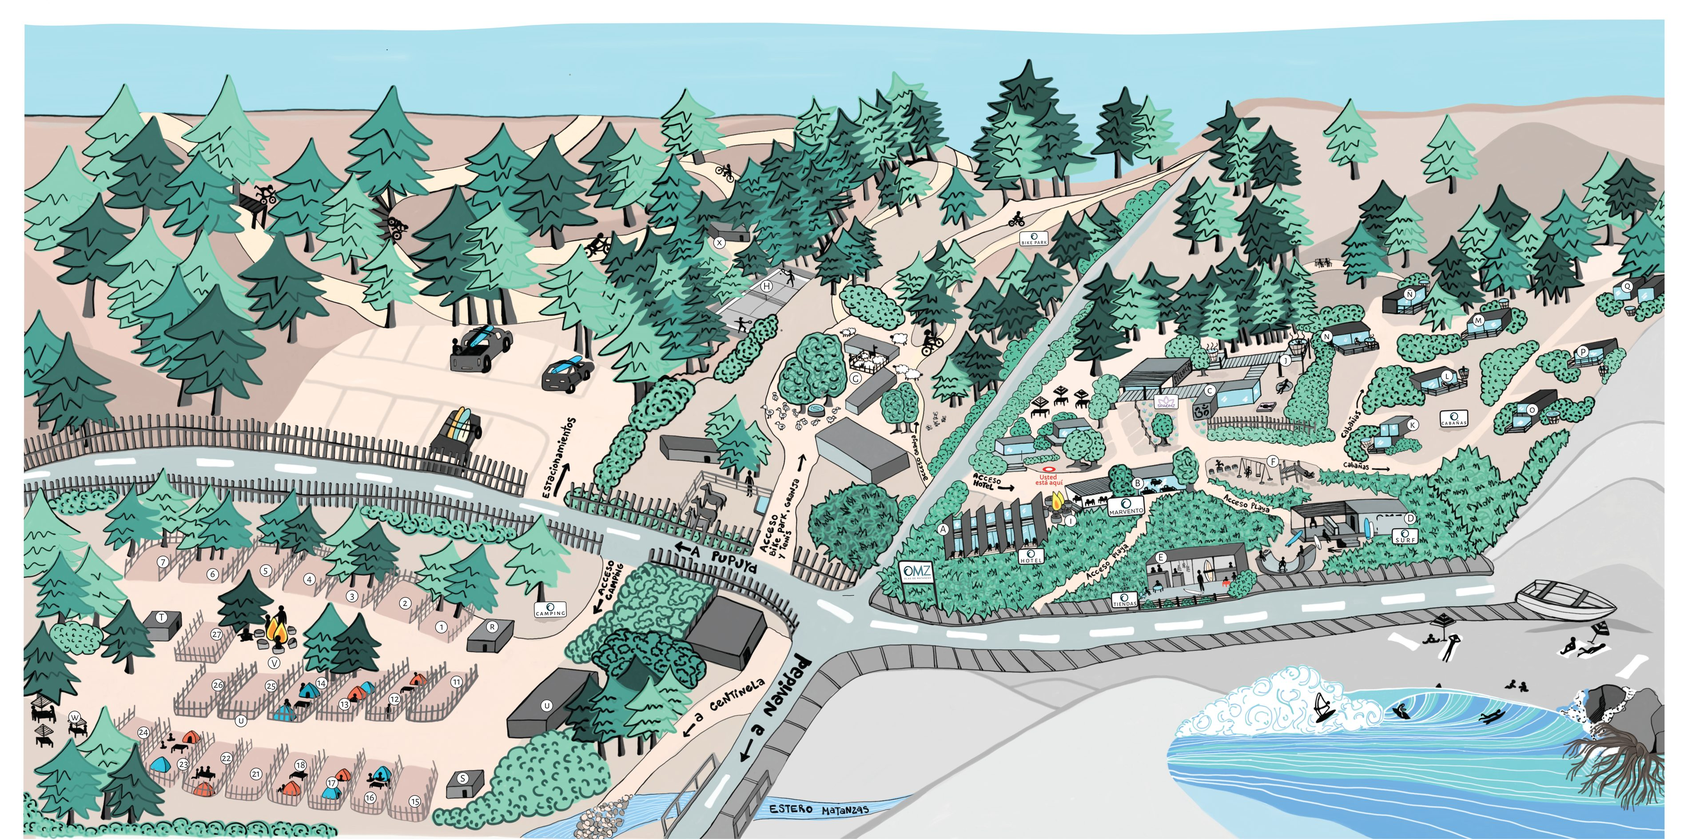
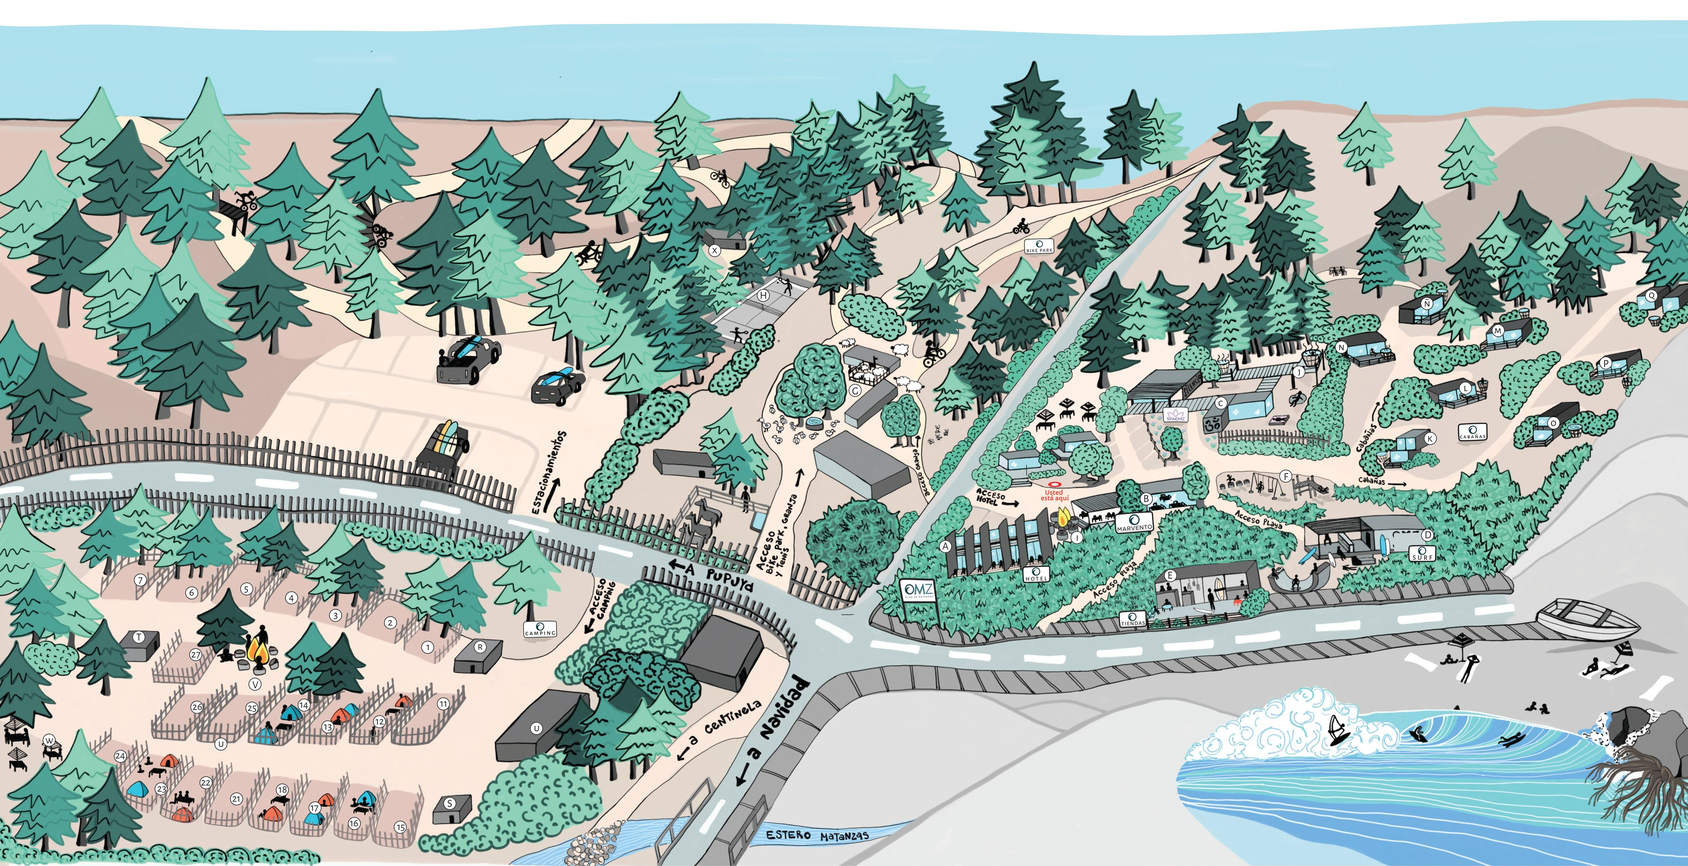
Mapa: recorte lateral, x para limpiar buscador, atenuar puntos al seleccionar, espacio antes del footer

diff --git a/mapa.html b/mapa.html
@@ -569,7 +569,7 @@ p{color:var(--text)}
 .cmch--wa .cmch__t{color:#fff}.cmch--wa .cmch__s{color:#eafff2}
 </style>
 <style>
-.omzmap{--paper:#f4efe6;--slate:#3d545b;--slate-deep:#2e434a;--head:#415a63;--mink:#313f47;--cream:#efe8da;--mline:#d9cfbd;color:var(--mink);font-family:'Mulish',system-ui,sans-serif;max-width:1320px;margin:0 auto;padding:clamp(10px,2.5vw,26px) 0 0}
+.omzmap{--paper:#f4efe6;--slate:#3d545b;--slate-deep:#2e434a;--head:#415a63;--mink:#313f47;--cream:#efe8da;--mline:#d9cfbd;color:var(--mink);font-family:'Mulish',system-ui,sans-serif;max-width:1320px;margin:0 auto;padding:clamp(10px,2.5vw,26px) 0 clamp(36px,6vw,68px)}
 .omzmap *{box-sizing:border-box}
 .omzmap .omzsub{text-align:center;color:#6c685f;font-size:.96rem;margin:0 auto 16px;max-width:760px;padding:0 16px}
 .omzmap .mapouter{position:relative;width:100%;padding:0 clamp(0px,2vw,16px)}
@@ -581,9 +581,11 @@ p{color:var(--text)}
 .omzmap .zbtn.on{background:var(--slate);color:#fff;border-color:var(--slate)}
 .omzmap .zbtn.reset{background:transparent;border-style:dashed}
 .omzmap .search{position:relative;min-width:220px;flex:1;max-width:330px}
-.omzmap .search input{width:100%;border:1px solid var(--mline);background:#fff;border-radius:0;padding:10px 16px 10px 40px;font-family:inherit;font-size:.9rem;color:var(--mink)}
+.omzmap .search input{width:100%;border:1px solid var(--mline);background:#fff;border-radius:0;padding:10px 40px 10px 16px;font-family:inherit;font-size:.9rem;color:var(--mink)}
 .omzmap .search input:focus{outline:none;border-color:var(--slate)}
-.omzmap .search>svg{position:absolute;left:14px;top:50%;transform:translateY(-50%);opacity:.5}
+.omzmap .search__clear{position:absolute;right:8px;top:50%;transform:translateY(-50%);width:24px;height:24px;border:0;background:var(--cream);color:var(--head);font-size:1.05rem;line-height:1;cursor:pointer;display:none;align-items:center;justify-content:center;padding:0}
+.omzmap .search__clear.show{display:flex}
+.omzmap .search__clear:hover{background:var(--mline);color:var(--slate)}
 .omzmap .results{position:absolute;top:calc(100% + 6px);left:0;right:0;background:#fff;border:1px solid var(--mline);border-radius:0;box-shadow:0 18px 40px -16px rgba(0,0,0,.35);max-height:300px;overflow:auto;z-index:40;display:none}
 .omzmap .results.show{display:block}
 .omzmap .results button{display:flex;width:100%;align-items:center;gap:10px;border:0;background:none;padding:9px 14px;cursor:pointer;font-family:inherit;font-size:.88rem;color:var(--mink);text-align:left}
@@ -802,8 +804,8 @@ p{color:var(--text)}
     <div class="ctrl">
       <div class="zones" id="zones"></div>
       <div class="search">
-        <svg width="16" height="16" viewBox="0 0 24 24" fill="none" stroke="#3d545b" stroke-width="2"><circle cx="11" cy="11" r="7"/><path d="m21 21-4.3-4.3"/></svg>
         <input id="q" type="text" placeholder="Selecciona…" autocomplete="off">
+        <button class="search__clear" id="qclear" type="button" aria-label="Borrar">×</button>
         <div class="results" id="res"></div>
       </div>
     </div>
@@ -1484,7 +1486,7 @@ setLang(url||saved||(((navigator.language||'es').slice(0,2)==='en')?'en':'es'));
 <script>(function(){var m=document.getElementById("contactModal");if(!m)return;function op(){var mob=document.querySelector(".nav__mobile.open");if(mob)mob.classList.remove("open");m.classList.add("open");document.body.style.overflow="hidden";}function cl(){m.classList.remove("open");document.body.style.overflow="";}document.addEventListener("click",function(e){var t=e.target.closest("[data-contact]");if(t){e.preventDefault();op();return;}if(e.target.closest("[data-cmodal-close]"))cl();});document.addEventListener("keydown",function(e){if(e.key==="Escape"&&m.classList.contains("open"))cl();});try{var _cl=document.documentElement.lang==="en"?"en":"es";var _b=document.querySelector('[data-lang="'+_cl+'"]');if(_b&&_cl==="en")_b.click();}catch(e){}})();</script>
 <script>
 (function(){
-var D={"img": "assets/mapa-omz.jpg", "spots": [{"x": 55.87, "y": 63.09, "n": "Hotel", "c": "Instalación"}, {"x": 67.3, "y": 57.53, "n": "Restaurant Marvento", "c": "Instalación"}, {"x": 71.68, "y": 46.52, "n": "Spa OMZ", "c": "Instalación"}, {"x": 83.55, "y": 61.81, "n": "Escuela de Surf OMZ", "c": "Instalación"}, {"x": 68.78, "y": 66.44, "n": "Tiendas, cafetería y heladería", "c": "Instalación"}, {"x": 75.41, "y": 54.95, "n": "Juegos infantiles", "c": "Instalación"}, {"x": 50.68, "y": 45.05, "n": "Granja de animales", "c": "Instalación"}, {"x": 45.4, "y": 34.08, "n": "Cancha de Tenis", "c": "Instalación"}, {"x": 63.42, "y": 62.04, "n": "Fogón Restaurante", "c": "Instalación"}, {"x": 76.18, "y": 42.88, "n": "Hot-Tubs", "c": "Instalación"}, {"x": 83.7, "y": 50.61, "n": "Cabaña Los Pájaros", "c": "Cabaña"}, {"x": 85.71, "y": 44.8, "n": "Cabaña Los Lobos", "c": "Cabaña"}, {"x": 87.3, "y": 37.44, "n": "Cabaña Los Pelícanos", "c": "Cabaña"}, {"x": 78.6, "y": 40.05, "n": "Cabaña Las Gaviotas", "c": "Cabaña"}, {"x": 83.0, "y": 34.1, "n": "Cabaña La Sirena", "c": "Cabaña"}, {"x": 90.76, "y": 48.81, "n": "Cabaña La Luna", "c": "Cabaña"}, {"x": 93.77, "y": 41.9, "n": "Cabaña Chagual", "c": "Cabaña"}, {"x": 96.39, "y": 34.14, "n": "Cabaña Las Brisas", "c": "Cabaña"}, {"x": 29.16, "y": 74.67, "n": "Baños Los Peumos", "c": "Baños"}, {"x": 27.42, "y": 92.76, "n": "Baños Los Boldos", "c": "Baños"}, {"x": 9.57, "y": 73.55, "n": "Baños Los Maquis", "c": "Baños"}, {"x": 32.38, "y": 84.09, "n": "Recepción camping", "c": "Camping"}, {"x": 16.23, "y": 78.98, "n": "Fogón", "c": "Camping"}, {"x": 4.42, "y": 85.47, "n": "Quincho", "c": "Camping"}, {"x": 42.63, "y": 28.91, "n": "Casa Bosque", "c": "Camping"}, {"x": 26.15, "y": 74.72, "n": "Sitio de camping 1", "c": "Sitio"}, {"x": 24.01, "y": 71.89, "n": "Sitio de camping 2", "c": "Sitio"}, {"x": 20.86, "y": 71.03, "n": "Sitio de camping 3", "c": "Sitio"}, {"x": 18.32, "y": 68.99, "n": "Sitio de camping 4", "c": "Sitio"}, {"x": 15.76, "y": 67.96, "n": "Sitio de camping 5", "c": "Sitio"}, {"x": 12.61, "y": 68.43, "n": "Sitio de camping 6", "c": "Sitio"}, {"x": 9.67, "y": 66.97, "n": "Sitio de camping 7", "c": "Sitio"}, {"x": 27.05, "y": 81.25, "n": "Sitio de camping 11", "c": "Sitio"}, {"x": 23.38, "y": 83.29, "n": "Sitio de camping 12", "c": "Sitio"}, {"x": 20.41, "y": 83.91, "n": "Sitio de camping 13", "c": "Sitio"}, {"x": 19.05, "y": 81.4, "n": "Sitio de camping 14", "c": "Sitio"}, {"x": 24.58, "y": 95.49, "n": "Sitio de camping 15", "c": "Sitio"}, {"x": 21.94, "y": 95.06, "n": "Sitio de camping 16", "c": "Sitio"}, {"x": 19.68, "y": 93.27, "n": "Sitio de camping 17", "c": "Sitio"}, {"x": 17.8, "y": 91.19, "n": "Sitio de camping 18", "c": "Sitio"}, {"x": 15.17, "y": 92.23, "n": "Sitio de camping 21", "c": "Sitio"}, {"x": 13.43, "y": 90.34, "n": "Sitio de camping 22", "c": "Sitio"}, {"x": 10.82, "y": 91.09, "n": "Sitio de camping 23", "c": "Sitio"}, {"x": 8.51, "y": 87.31, "n": "Sitio de camping 24", "c": "Sitio"}, {"x": 16.06, "y": 81.73, "n": "Sitio de camping 25", "c": "Sitio"}, {"x": 12.91, "y": 81.63, "n": "Sitio de camping 26", "c": "Sitio"}, {"x": 12.84, "y": 75.57, "n": "Sitio de camping 27", "c": "Sitio"}], "caba": {"Cabaña Los Pájaros": {"guests": "2", "desc": "Hot tub privado, cocina totalmente equipada y terraza con vista al mar.", "alta": "$189.000", "baja": "$160.000", "slug": "pajaros", "url": "cabana-pajaros.html", "imgs": ["assets/caba-pajaros-1.jpg", "assets/caba-pajaros-2.jpg", "assets/caba-pajaros-3.jpg", "assets/caba-pajaros-4.jpg"]}, "Cabaña La Luna": {"guests": "2", "desc": "Zona de comedor, cocina totalmente equipada, hot tub privado y terraza con vista al mar.", "alta": "$195.000", "baja": "$165.000", "slug": "luna", "url": "cabana-luna.html", "imgs": ["assets/caba-luna-1.jpg", "assets/caba-luna-2.jpg", "assets/caba-luna-3.jpg", "assets/caba-luna-4.jpg", "assets/caba-luna-5.jpg"]}, "Cabaña Los Lobos": {"guests": "4", "desc": "Terraza con vista al mar, chimenea, cocina equipada, quincho con parrilla y hot tub privado.", "alta": "$215.000", "baja": "$180.000", "slug": "lobos", "url": "cabana-lobos.html", "imgs": ["assets/caba-lobos-1.jpg", "assets/caba-lobos-2.jpg", "assets/caba-lobos-3.jpg", "assets/caba-lobos-4.jpg", "assets/caba-lobos-5.jpg"]}, "Cabaña Las Gaviotas": {"guests": "4", "desc": "Habitaciones con vista al mar, hot tub privado, cocina equipada, chimenea y terraza.", "alta": "$215.000", "baja": "$180.000", "slug": "gaviotas", "url": "cabana-gaviotas.html", "imgs": ["assets/caba-gaviotas-1.jpg", "assets/caba-gaviotas-2.jpg", "assets/caba-gaviotas-3.jpg", "assets/caba-gaviotas-4.jpg", "assets/caba-gaviotas-5.jpg"]}, "Cabaña La Sirena": {"guests": "4", "desc": "Amplia terraza con vista al mar, chimenea, cocina equipada, habitaciones con vista al mar y hot tub privado.", "alta": "$215.000", "baja": "$180.000", "slug": "sirena", "url": "cabana-sirena.html", "imgs": ["assets/caba-sirena-1.jpg", "assets/caba-sirena-2.jpg", "assets/caba-sirena-3.jpg", "assets/caba-sirena-4.jpg", "assets/caba-sirena-5.jpg"]}, "Cabaña Chagual": {"guests": "4", "desc": "Hot tub privado, amplias terrazas con vista al mar, cocina equipada y chimenea.", "alta": "$215.000", "baja": "$180.000", "slug": "chagual", "url": "cabana-chagual.html", "imgs": ["assets/caba-chagual-1.jpg", "assets/caba-chagual-2.jpg", "assets/caba-chagual-3.jpg", "assets/caba-chagual-4.jpg", "assets/caba-chagual-5.jpg"]}, "Cabaña Las Brisas": {"guests": "5", "desc": "Balcón, hot tub privado, chimenea y terraza con vista al mar.", "alta": "$227.000", "baja": "$190.000", "slug": "brisas", "url": "cabana-brisas.html", "imgs": ["assets/caba-brisas-1.jpg", "assets/caba-brisas-2.jpg", "assets/caba-brisas-3.jpg", "assets/caba-brisas-4.jpg", "assets/caba-brisas-5.jpg"]}, "Cabaña Los Pelícanos": {"guests": "6", "desc": "Sofá, chimenea, hot tub y cocina totalmente equipada.", "alta": "$238.000", "baja": "$200.000", "slug": "pelicanos", "url": "cabana-pelicanos.html", "imgs": ["assets/caba-pelicanos-1.jpg", "assets/caba-pelicanos-2.jpg", "assets/caba-pelicanos-3.jpg", "assets/caba-pelicanos-4.jpg"]}}, "desc": {"Hotel": "Habitaciones con vista al mar, a pasos de la playa.", "Restaurant Marvento": "Restaurante del complejo, cocina de mar.", "Spa OMZ": "Espacio de relajo y bienestar.", "Escuela de Surf OMZ": "Clases y arriendo de equipo frente a la ola.", "Tiendas, cafetería y heladería": "Tienda, cafetería y heladería.", "Juegos infantiles": "Zona de juegos para los más chicos.", "Granja de animales": "Granja con animales para visitar.", "Cancha de Tenis": "Cancha de tenis del complejo.", "Fogón Restaurante": "Fogón del restaurante.", "Hot-Tubs": "Tinajas de agua caliente con vista.", "Baños Los Peumos": "Baños del camping.", "Baños Los Boldos": "Baños del camping.", "Baños Los Maquis": "Baños del camping.", "Recepción camping": "Recepción y check-in del camping.", "Fogón": "Fogón común del camping.", "Quincho": "Quincho con parrillas.", "Casa Bosque": "Casa en el bosque."}, "sitdesc": "Sitio de camping con acceso a baños, fogón, quincho y recepción.", "zones": {"camping": {"label": "Camping", "members": ["Baños Los Peumos", "Baños Los Boldos", "Baños Los Maquis", "Recepción camping", "Fogón", "Quincho", "Casa Bosque", "Sitio de camping 1", "Sitio de camping 2", "Sitio de camping 3", "Sitio de camping 4", "Sitio de camping 5", "Sitio de camping 6", "Sitio de camping 7", "Sitio de camping 11", "Sitio de camping 12", "Sitio de camping 13", "Sitio de camping 14", "Sitio de camping 15", "Sitio de camping 16", "Sitio de camping 17", "Sitio de camping 18", "Sitio de camping 21", "Sitio de camping 22", "Sitio de camping 23", "Sitio de camping 24", "Sitio de camping 25", "Sitio de camping 26", "Sitio de camping 27"], "box": {"x0": 1.92, "y0": 25.42, "x1": 45.13, "y1": 98.99}, "sum": "22 sitios · 3 baños · recepción · fogón · quincho"}, "cabanas": {"label": "Cabañas", "members": ["Cabaña Los Pájaros", "Cabaña Los Lobos", "Cabaña Los Pelícanos", "Cabaña Las Gaviotas", "Cabaña La Sirena", "Cabaña La Luna", "Cabaña Chagual", "Cabaña Las Brisas"], "box": {"x0": 73.65, "y0": 30.65, "x1": 98.89, "y1": 54.1}, "sum": "8 cabañas · desde $189.000 alta / $160.000 baja la noche"}, "hotel": {"label": "Hotel y servicios", "members": ["Hotel", "Restaurant Marvento", "Spa OMZ", "Tiendas, cafetería y heladería", "Fogón Restaurante", "Hot-Tubs", "Granja de animales", "Juegos infantiles"], "box": {"x0": 48.18, "y0": 41.56, "x1": 77.91, "y1": 69.94}, "sum": "Hotel · restaurante · spa · tiendas · juegos · granja"}, "playa": {"label": "Playa y deportes", "members": ["Cancha de Tenis", "Escuela de Surf OMZ", "Casa Bosque"], "box": {"x0": 40.13, "y0": 25.42, "x1": 86.05, "y1": 65.3}, "sum": "Escuela de surf · cancha de tenis · casa bosque"}}, "_crop": {"T": 10.8, "B": 76.5, "span": 65.7}, "maps": "https://www.google.com/maps/dir/?api=1&destination=-33.9636,-71.8756"};
+var D={"img": "assets/mapa-omz.jpg", "spots": [{"x": 56.01, "y": 63.09, "n": "Hotel", "c": "Instalación"}, {"x": 67.8, "y": 57.53, "n": "Restaurant Marvento", "c": "Instalación"}, {"x": 72.32, "y": 46.52, "n": "Spa OMZ", "c": "Instalación"}, {"x": 84.57, "y": 61.81, "n": "Escuela de Surf OMZ", "c": "Instalación"}, {"x": 69.33, "y": 66.44, "n": "Tiendas, cafetería y heladería", "c": "Instalación"}, {"x": 76.17, "y": 54.95, "n": "Juegos infantiles", "c": "Instalación"}, {"x": 50.65, "y": 45.05, "n": "Granja de animales", "c": "Instalación"}, {"x": 45.2, "y": 34.08, "n": "Cancha de Tenis", "c": "Instalación"}, {"x": 63.8, "y": 62.04, "n": "Fogón Restaurante", "c": "Instalación"}, {"x": 76.97, "y": 42.88, "n": "Hot-Tubs", "c": "Instalación"}, {"x": 84.73, "y": 50.61, "n": "Cabaña Los Pájaros", "c": "Cabaña"}, {"x": 86.8, "y": 44.8, "n": "Cabaña Los Lobos", "c": "Cabaña"}, {"x": 88.44, "y": 37.44, "n": "Cabaña Los Pelícanos", "c": "Cabaña"}, {"x": 79.46, "y": 40.05, "n": "Cabaña Las Gaviotas", "c": "Cabaña"}, {"x": 84.0, "y": 34.1, "n": "Cabaña La Sirena", "c": "Cabaña"}, {"x": 92.01, "y": 48.81, "n": "Cabaña La Luna", "c": "Cabaña"}, {"x": 95.12, "y": 41.9, "n": "Cabaña Chagual", "c": "Cabaña"}, {"x": 97.82, "y": 34.14, "n": "Cabaña Las Brisas", "c": "Cabaña"}, {"x": 28.44, "y": 74.67, "n": "Baños Los Peumos", "c": "Baños"}, {"x": 26.65, "y": 92.76, "n": "Baños Los Boldos", "c": "Baños"}, {"x": 8.22, "y": 73.55, "n": "Baños Los Maquis", "c": "Baños"}, {"x": 31.76, "y": 84.09, "n": "Recepción camping", "c": "Camping"}, {"x": 15.1, "y": 78.98, "n": "Fogón", "c": "Camping"}, {"x": 2.91, "y": 85.47, "n": "Quincho", "c": "Camping"}, {"x": 42.34, "y": 28.91, "n": "Casa Bosque", "c": "Camping"}, {"x": 25.34, "y": 74.72, "n": "Sitio de camping 1", "c": "Sitio"}, {"x": 23.13, "y": 71.89, "n": "Sitio de camping 2", "c": "Sitio"}, {"x": 19.88, "y": 71.03, "n": "Sitio de camping 3", "c": "Sitio"}, {"x": 17.25, "y": 68.99, "n": "Sitio de camping 4", "c": "Sitio"}, {"x": 14.61, "y": 67.96, "n": "Sitio de camping 5", "c": "Sitio"}, {"x": 11.36, "y": 68.43, "n": "Sitio de camping 6", "c": "Sitio"}, {"x": 8.33, "y": 66.97, "n": "Sitio de camping 7", "c": "Sitio"}, {"x": 26.26, "y": 81.25, "n": "Sitio de camping 11", "c": "Sitio"}, {"x": 22.48, "y": 83.29, "n": "Sitio de camping 12", "c": "Sitio"}, {"x": 19.41, "y": 83.91, "n": "Sitio de camping 13", "c": "Sitio"}, {"x": 18.01, "y": 81.4, "n": "Sitio de camping 14", "c": "Sitio"}, {"x": 23.72, "y": 95.49, "n": "Sitio de camping 15", "c": "Sitio"}, {"x": 20.99, "y": 95.06, "n": "Sitio de camping 16", "c": "Sitio"}, {"x": 18.66, "y": 93.27, "n": "Sitio de camping 17", "c": "Sitio"}, {"x": 16.72, "y": 91.19, "n": "Sitio de camping 18", "c": "Sitio"}, {"x": 14.0, "y": 92.23, "n": "Sitio de camping 21", "c": "Sitio"}, {"x": 12.21, "y": 90.34, "n": "Sitio de camping 22", "c": "Sitio"}, {"x": 9.51, "y": 91.09, "n": "Sitio de camping 23", "c": "Sitio"}, {"x": 7.13, "y": 87.31, "n": "Sitio de camping 24", "c": "Sitio"}, {"x": 14.92, "y": 81.73, "n": "Sitio de camping 25", "c": "Sitio"}, {"x": 11.67, "y": 81.63, "n": "Sitio de camping 26", "c": "Sitio"}, {"x": 11.6, "y": 75.57, "n": "Sitio de camping 27", "c": "Sitio"}], "caba": {"Cabaña Los Pájaros": {"guests": "2", "desc": "Hot tub privado, cocina totalmente equipada y terraza con vista al mar.", "alta": "$189.000", "baja": "$160.000", "slug": "pajaros", "url": "cabana-pajaros.html", "imgs": ["assets/caba-pajaros-1.jpg", "assets/caba-pajaros-2.jpg", "assets/caba-pajaros-3.jpg", "assets/caba-pajaros-4.jpg"]}, "Cabaña La Luna": {"guests": "2", "desc": "Zona de comedor, cocina totalmente equipada, hot tub privado y terraza con vista al mar.", "alta": "$195.000", "baja": "$165.000", "slug": "luna", "url": "cabana-luna.html", "imgs": ["assets/caba-luna-1.jpg", "assets/caba-luna-2.jpg", "assets/caba-luna-3.jpg", "assets/caba-luna-4.jpg", "assets/caba-luna-5.jpg"]}, "Cabaña Los Lobos": {"guests": "4", "desc": "Terraza con vista al mar, chimenea, cocina equipada, quincho con parrilla y hot tub privado.", "alta": "$215.000", "baja": "$180.000", "slug": "lobos", "url": "cabana-lobos.html", "imgs": ["assets/caba-lobos-1.jpg", "assets/caba-lobos-2.jpg", "assets/caba-lobos-3.jpg", "assets/caba-lobos-4.jpg", "assets/caba-lobos-5.jpg"]}, "Cabaña Las Gaviotas": {"guests": "4", "desc": "Habitaciones con vista al mar, hot tub privado, cocina equipada, chimenea y terraza.", "alta": "$215.000", "baja": "$180.000", "slug": "gaviotas", "url": "cabana-gaviotas.html", "imgs": ["assets/caba-gaviotas-1.jpg", "assets/caba-gaviotas-2.jpg", "assets/caba-gaviotas-3.jpg", "assets/caba-gaviotas-4.jpg", "assets/caba-gaviotas-5.jpg"]}, "Cabaña La Sirena": {"guests": "4", "desc": "Amplia terraza con vista al mar, chimenea, cocina equipada, habitaciones con vista al mar y hot tub privado.", "alta": "$215.000", "baja": "$180.000", "slug": "sirena", "url": "cabana-sirena.html", "imgs": ["assets/caba-sirena-1.jpg", "assets/caba-sirena-2.jpg", "assets/caba-sirena-3.jpg", "assets/caba-sirena-4.jpg", "assets/caba-sirena-5.jpg"]}, "Cabaña Chagual": {"guests": "4", "desc": "Hot tub privado, amplias terrazas con vista al mar, cocina equipada y chimenea.", "alta": "$215.000", "baja": "$180.000", "slug": "chagual", "url": "cabana-chagual.html", "imgs": ["assets/caba-chagual-1.jpg", "assets/caba-chagual-2.jpg", "assets/caba-chagual-3.jpg", "assets/caba-chagual-4.jpg", "assets/caba-chagual-5.jpg"]}, "Cabaña Las Brisas": {"guests": "5", "desc": "Balcón, hot tub privado, chimenea y terraza con vista al mar.", "alta": "$227.000", "baja": "$190.000", "slug": "brisas", "url": "cabana-brisas.html", "imgs": ["assets/caba-brisas-1.jpg", "assets/caba-brisas-2.jpg", "assets/caba-brisas-3.jpg", "assets/caba-brisas-4.jpg", "assets/caba-brisas-5.jpg"]}, "Cabaña Los Pelícanos": {"guests": "6", "desc": "Sofá, chimenea, hot tub y cocina totalmente equipada.", "alta": "$238.000", "baja": "$200.000", "slug": "pelicanos", "url": "cabana-pelicanos.html", "imgs": ["assets/caba-pelicanos-1.jpg", "assets/caba-pelicanos-2.jpg", "assets/caba-pelicanos-3.jpg", "assets/caba-pelicanos-4.jpg"]}}, "desc": {"Hotel": "Habitaciones con vista al mar, a pasos de la playa.", "Restaurant Marvento": "Restaurante del complejo, cocina de mar.", "Spa OMZ": "Espacio de relajo y bienestar.", "Escuela de Surf OMZ": "Clases y arriendo de equipo frente a la ola.", "Tiendas, cafetería y heladería": "Tienda, cafetería y heladería.", "Juegos infantiles": "Zona de juegos para los más chicos.", "Granja de animales": "Granja con animales para visitar.", "Cancha de Tenis": "Cancha de tenis del complejo.", "Fogón Restaurante": "Fogón del restaurante.", "Hot-Tubs": "Tinajas de agua caliente con vista.", "Baños Los Peumos": "Baños del camping.", "Baños Los Boldos": "Baños del camping.", "Baños Los Maquis": "Baños del camping.", "Recepción camping": "Recepción y check-in del camping.", "Fogón": "Fogón común del camping.", "Quincho": "Quincho con parrillas.", "Casa Bosque": "Casa en el bosque."}, "sitdesc": "Sitio de camping con acceso a baños, fogón, quincho y recepción.", "zones": {"camping": {"label": "Camping", "members": ["Baños Los Peumos", "Baños Los Boldos", "Baños Los Maquis", "Recepción camping", "Fogón", "Quincho", "Casa Bosque", "Sitio de camping 1", "Sitio de camping 2", "Sitio de camping 3", "Sitio de camping 4", "Sitio de camping 5", "Sitio de camping 6", "Sitio de camping 7", "Sitio de camping 11", "Sitio de camping 12", "Sitio de camping 13", "Sitio de camping 14", "Sitio de camping 15", "Sitio de camping 16", "Sitio de camping 17", "Sitio de camping 18", "Sitio de camping 21", "Sitio de camping 22", "Sitio de camping 23", "Sitio de camping 24", "Sitio de camping 25", "Sitio de camping 26", "Sitio de camping 27"], "box": {"x0": 0.33, "y0": 25.42, "x1": 44.92, "y1": 98.99}, "sum": "22 sitios · 3 baños · recepción · fogón · quincho"}, "cabanas": {"label": "Cabañas", "members": ["Cabaña Los Pájaros", "Cabaña Los Lobos", "Cabaña Los Pelícanos", "Cabaña Las Gaviotas", "Cabaña La Sirena", "Cabaña La Luna", "Cabaña Chagual", "Cabaña Las Brisas"], "box": {"x0": 74.36, "y0": 30.65, "x1": 100, "y1": 54.1}, "sum": "8 cabañas · desde $189.000 alta / $160.000 baja la noche"}, "hotel": {"label": "Hotel y servicios", "members": ["Hotel", "Restaurant Marvento", "Spa OMZ", "Tiendas, cafetería y heladería", "Fogón Restaurante", "Hot-Tubs", "Granja de animales", "Juegos infantiles"], "box": {"x0": 48.07, "y0": 41.56, "x1": 78.75, "y1": 69.94}, "sum": "Hotel · restaurante · spa · tiendas · juegos · granja"}, "playa": {"label": "Playa y deportes", "members": ["Cancha de Tenis", "Escuela de Surf OMZ", "Casa Bosque"], "box": {"x0": 39.76, "y0": 25.42, "x1": 87.15, "y1": 65.3}, "sum": "Escuela de surf · cancha de tenis · casa bosque"}}, "_crop": {"T": 10.8, "B": 76.5, "span": 65.7}, "maps": "https://www.google.com/maps/dir/?api=1&destination=-33.9636,-71.8756", "_cropx": {"Lx": 1.6, "Rx": 98.5}};
 var SP=D.spots,CABA=D.caba,DESC=D.desc,ZONES=D.zones,SITDESC=D.sitdesc,MAPS=D.maps;
 var COL={'Instalación':'#3d545b','Cabaña':'#9c6b3f','Baños':'#b8682f','Camping':'#3f7d86','Sitio':'#5d8a4f'};
 var CATLBL={'Instalación':'Instalación','Cabaña':'Cabaña','Baños':'Baños','Camping':'Servicio camping','Sitio':'Camping'};
@@ -1521,7 +1523,7 @@ function selectSpot(s,fromSearch){
   var sc=clamp(fromSearch?2.7:2.4,1,3.2);var mob=window.innerWidth<=640;
   var px=mob?0.5:0.34, py=mob?0.30:0.46;
   tx=clamp(px*100-s.x*sc,(1-sc)*100,0);ty=clamp(py*100-s.y*sc,(1-sc)*100,0);scale=sc;apply(true);syncSlider();
-  focusHS(s);openPanel(s);
+  focusHS(s);hs.forEach(function(h){h.classList.toggle('off',h._s!==s);});openPanel(s);
   history.replaceState(null,'','?lugar='+slugOf(s));
 }
 
@@ -1565,7 +1567,7 @@ function openPanel(s){
     panel.innerHTML=h;panel.classList.add('open');
   }
 }
-function closePanel(){panel.classList.remove('open');clearFocus();}
+function closePanel(){panel.classList.remove('open');clearFocus();hs.forEach(function(h){h.classList.remove('off');});}
 
 var zwrap=document.getElementById('zones');
 Object.keys(ZONES).forEach(function(k){
@@ -1588,9 +1590,10 @@ function clearZone(){hs.forEach(function(h){h.classList.remove('off');});mask.st
 var q=document.getElementById('q'),res=document.getElementById('res');
 var order={'Cabaña':0,'Instalación':1,'Camping':2,'Baños':3,'Sitio':4};
 var GRP={'Cabaña':'Cabañas','Instalación':'Instalaciones','Camping':'Servicios','Baños':'Baños','Sitio':'Sitios de camping'};
+function norm(x){return (x||'').toLowerCase().normalize('NFD').replace(/[\u0300-\u036f]/g,'');}
 function renderRes(term){
-  term=(term||'').toLowerCase();
-  var items=SP.filter(function(s){return s.n.toLowerCase().indexOf(term)>=0;});
+  var nt=norm(term);
+  var items=SP.filter(function(s){return norm(s.n).indexOf(nt)>=0;});
   items.sort(function(a,b){return (order[a.c]-order[b.c])||a.n.localeCompare(b.n);});
   if(!items.length){res.classList.remove('show');return;}
   var html='',lastc=null;
@@ -1601,11 +1604,14 @@ function renderRes(term){
   res.innerHTML=html;res.classList.add('show');
   [].forEach.call(res.querySelectorAll('button'),function(btn){
     btn.onclick=function(){var n=decodeURIComponent(btn.dataset.n);var s=SP.find(function(x){return x.n===n;});
-      q.value=n;res.classList.remove('show');selectSpot(s,true);};
+      q.value=n;toggleClear();res.classList.remove('show');selectSpot(s,true);};
   });
 }
-q.addEventListener('input',function(){renderRes(q.value);});
+var qclear=document.getElementById('qclear');
+function toggleClear(){qclear.classList.toggle('show',!!q.value);}
+q.addEventListener('input',function(){renderRes(q.value);toggleClear();});
 q.addEventListener('focus',function(){renderRes(q.value);});
+qclear.addEventListener('click',function(){q.value='';toggleClear();resetView();q.focus();renderRes('');});
 document.addEventListener('click',function(e){if(!e.target.closest('.search'))res.classList.remove('show');});
 
 zslider=document.getElementById('zslider');
